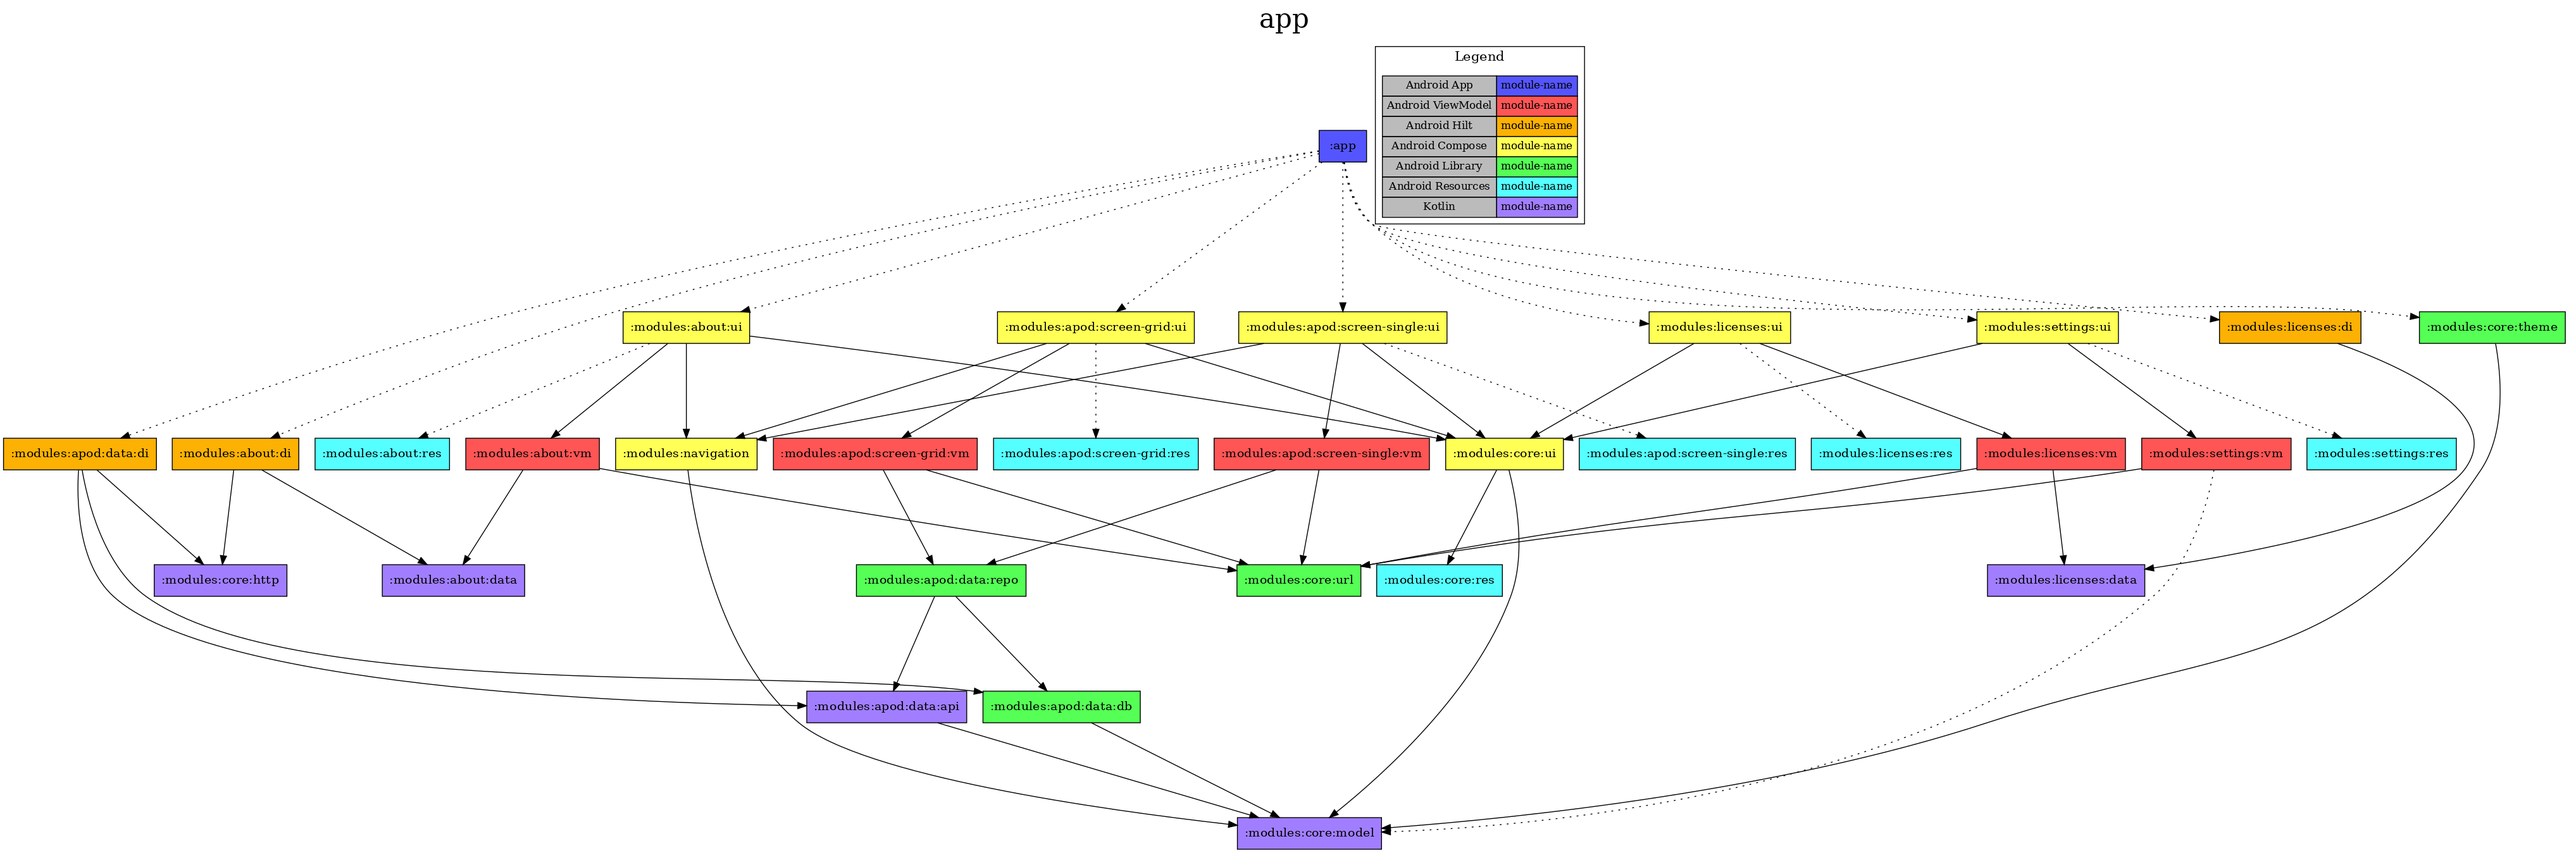
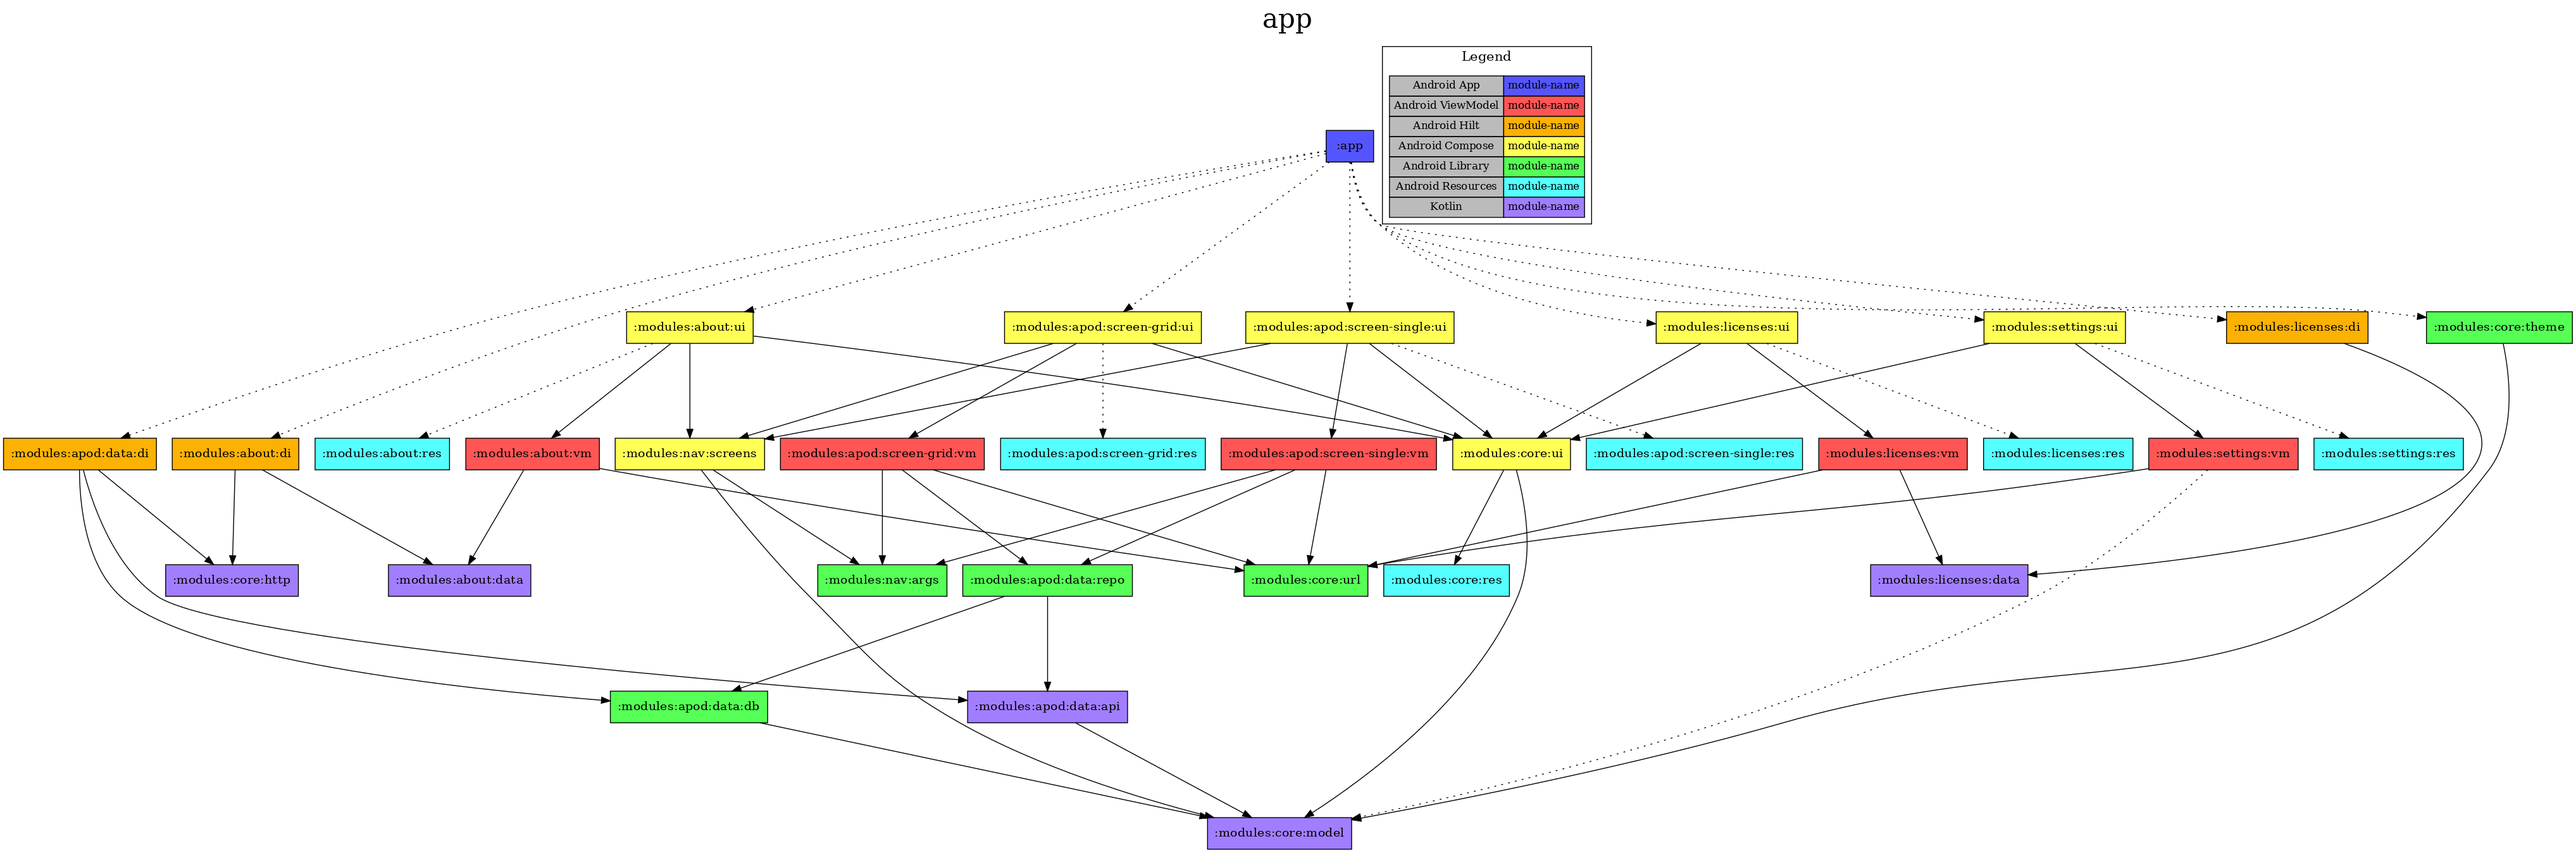
Fixed nav args

diff --git a/modules/apod/screen-grid/ui/src/main/kotlin/apod/grid/ui/ApodGridScreen.kt b/modules/apod/screen-grid/ui/src/main/kotlin/apod/grid/ui/ApodGridScreen.kt
@@ -8,11 +8,11 @@ import androidx.compose.runtime.mutableStateOf
 import androidx.compose.runtime.remember
 import androidx.compose.runtime.setValue
 import androidx.lifecycle.compose.collectAsStateWithLifecycle
-import apod.core.model.GridScreenConfig
 import apod.core.ui.getViewModel
 import apod.grid.vm.ApodGridAction
 import apod.grid.vm.ApodGridViewModel
-import apod.navigation.NavScreens
+import apod.nav.NavScreens
+import apod.nav.ScreenConfig
 import cafe.adriel.voyager.core.registry.rememberScreen
 import cafe.adriel.voyager.core.screen.Screen
 import cafe.adriel.voyager.navigator.LocalNavigator
@@ -23,7 +23,7 @@ import kotlinx.datetime.minus
 import kotlinx.datetime.plus
 
 data class ApodGridScreen(
-  val config: GridScreenConfig,
+  val config: ScreenConfig,
 ) : Screen {
   @Suppress("CyclomaticComplexMethod")
   @Composable
@@ -42,15 +42,24 @@ data class ApodGridScreen(
     var loadSpecificDate by remember { mutableStateOf<LocalDate?>(null) }
     val immutableSpecificDate = loadSpecificDate
     if (immutableSpecificDate != null) {
-      val config = GridScreenConfig.Specific(immutableSpecificDate)
+      val config = ScreenConfig.Specific(immutableSpecificDate)
       val screen = rememberScreen(NavScreens.Grid(config))
       navigator.replace(screen)
       loadSpecificDate = null
     }
 
+    var loadItemDate by remember { mutableStateOf<LocalDate?>(null) }
+    val immutableItemDate = loadItemDate
+    if (immutableItemDate != null) {
+      val config = ScreenConfig.Specific(immutableItemDate)
+      val screen = rememberScreen(NavScreens.Apod(config))
+      navigator.push(screen)
+      loadItemDate = null
+    }
+
     var loadRandom by remember { mutableStateOf(false) }
     if (loadRandom) {
-      val screen = rememberScreen(NavScreens.Grid(GridScreenConfig.Random))
+      val screen = rememberScreen(NavScreens.Grid(ScreenConfig.Random))
       navigator.replace(screen)
       loadRandom = false
     }
@@ -68,7 +77,7 @@ data class ApodGridScreen(
       onAction = { action ->
         when (action) {
           is ApodGridAction.NavToItem -> {
-            loadSpecificDate = action.item.date
+            loadItemDate = action.item.date
           }
 
           is ApodGridAction.RetryLoad -> loadCounter++

diff --git a/modules/apod/screen-single/ui/src/main/kotlin/apod/single/ui/ApodSingleScreen.kt b/modules/apod/screen-single/ui/src/main/kotlin/apod/single/ui/ApodSingleScreen.kt
@@ -9,10 +9,9 @@ import androidx.compose.runtime.remember
 import androidx.compose.runtime.setValue
 import androidx.lifecycle.compose.collectAsStateWithLifecycle
 import apod.core.model.ApodItem
-import apod.core.model.GridScreenConfig
-import apod.core.model.SingleScreenConfig
 import apod.core.ui.getViewModel
-import apod.navigation.NavScreens
+import apod.nav.NavScreens
+import apod.nav.ScreenConfig
 import apod.single.vm.ApodSingleAction
 import apod.single.vm.ApodSingleViewModel
 import cafe.adriel.voyager.core.registry.rememberScreen
@@ -25,7 +24,7 @@ import kotlinx.datetime.minus
 import kotlinx.datetime.plus
 
 data class ApodSingleScreen(
-  val config: SingleScreenConfig,
+  val config: ScreenConfig,
 ) : Screen {
   @Suppress("CyclomaticComplexMethod")
   @Composable
@@ -64,7 +63,7 @@ data class ApodSingleScreen(
     var loadSpecificDate by remember { mutableStateOf<LocalDate?>(null) }
     val immutableSpecificDate = loadSpecificDate
     if (immutableSpecificDate != null) {
-      val specific = SingleScreenConfig.Specific(immutableSpecificDate)
+      val specific = ScreenConfig.Specific(immutableSpecificDate)
       val screen = rememberScreen(NavScreens.Apod(specific))
       navigator.replace(screen)
       loadSpecificDate = null
@@ -73,7 +72,7 @@ data class ApodSingleScreen(
     var gridDate by remember { mutableStateOf<LocalDate?>(null) }
     val immutableGridDate = gridDate
     if (immutableGridDate != null) {
-      val specific = GridScreenConfig.Specific(immutableGridDate)
+      val specific = ScreenConfig.Specific(immutableGridDate)
       val screen = rememberScreen(NavScreens.Grid(specific))
       navigator.push(screen)
       gridDate = null
@@ -81,7 +80,7 @@ data class ApodSingleScreen(
 
     var loadRandom by remember { mutableStateOf(false) }
     if (loadRandom) {
-      val screen = rememberScreen(NavScreens.Apod(SingleScreenConfig.Random))
+      val screen = rememberScreen(NavScreens.Apod(ScreenConfig.Random))
       navigator.replace(screen)
       loadRandom = false
     }

diff --git a/modules/apod/screen-grid/vm/src/main/kotlin/apod/grid/vm/ApodGridViewModel.kt b/modules/apod/screen-grid/vm/src/main/kotlin/apod/grid/vm/ApodGridViewModel.kt
@@ -5,13 +5,13 @@ import androidx.lifecycle.ViewModel
 import androidx.lifecycle.viewModelScope
 import apod.core.model.ApiKey
 import apod.core.model.ApiKeyProvider
-import apod.core.model.GridScreenConfig
 import apod.core.model.NASA_API_URL
 import apod.core.url.UrlOpener
 import apod.data.repo.FailureResult
 import apod.data.repo.MultipleApodRepository
 import apod.data.repo.MultipleLoadResult
 import apod.data.repo.reason
+import apod.nav.ScreenConfig
 import dagger.hilt.android.lifecycle.HiltViewModel
 import kotlinx.collections.immutable.toImmutableList
 import kotlinx.coroutines.flow.MutableStateFlow
@@ -52,22 +52,22 @@ class ApodGridViewModel @Inject internal constructor(
     urlOpener.openUrl(NASA_API_URL)
   }
 
-  fun load(key: ApiKey, config: GridScreenConfig) {
+  fun load(key: ApiKey, config: ScreenConfig) {
     val mostRecent = mostRecentDate
-    val configToLoad = if (mostRecent == null) config else GridScreenConfig.Specific(mostRecent)
+    val configToLoad = if (mostRecent == null) config else ScreenConfig.Specific(mostRecent)
 
     when (configToLoad) {
-      GridScreenConfig.Random -> {
+      ScreenConfig.Random -> {
         mutableState.update { GridScreenState.Loading(date = null, key) }
         loadData(key, date = null) { repository.loadRandomMonth(key) }
       }
 
-      GridScreenConfig.ThisMonth -> {
+      ScreenConfig.Today -> {
         mutableState.update { GridScreenState.Loading(date = null, key) }
         loadData(key, date = null) { repository.loadThisMonth(key) }
       }
 
-      is GridScreenConfig.Specific -> {
+      is ScreenConfig.Specific -> {
         mostRecentDate = configToLoad.date
         mutableState.update { GridScreenState.Loading(configToLoad.date, key) }
         loadData(key, configToLoad.date) { repository.loadSpecificMonth(key, configToLoad.date) }

diff --git a/modules/apod/screen-single/vm/src/main/kotlin/apod/single/vm/ApodSingleViewModel.kt b/modules/apod/screen-single/vm/src/main/kotlin/apod/single/vm/ApodSingleViewModel.kt
@@ -6,12 +6,12 @@ import androidx.lifecycle.viewModelScope
 import apod.core.model.ApiKey
 import apod.core.model.ApiKeyProvider
 import apod.core.model.NASA_API_URL
-import apod.core.model.SingleScreenConfig
 import apod.core.url.UrlOpener
 import apod.data.repo.FailureResult
 import apod.data.repo.SingleApodRepository
 import apod.data.repo.SingleLoadResult
 import apod.data.repo.reason
+import apod.nav.ScreenConfig
 import dagger.hilt.android.lifecycle.HiltViewModel
 import kotlinx.coroutines.flow.MutableStateFlow
 import kotlinx.coroutines.flow.SharingStarted
@@ -58,22 +58,22 @@ class ApodSingleViewModel @Inject internal constructor(
     urlOpener.openUrl(url)
   }
 
-  fun load(key: ApiKey, config: SingleScreenConfig) {
+  fun load(key: ApiKey, config: ScreenConfig) {
     val mostRecent = mostRecentDate
-    val configToLoad = if (mostRecent == null) config else SingleScreenConfig.Specific(mostRecent)
+    val configToLoad = if (mostRecent == null) config else ScreenConfig.Specific(mostRecent)
 
     when (configToLoad) {
-      SingleScreenConfig.Random -> {
+      ScreenConfig.Random -> {
         mutableState.update { ScreenState.Loading(date = null, key) }
         loadData(key, date = null) { repository.loadRandom(key) }
       }
 
-      SingleScreenConfig.Today -> {
+      ScreenConfig.Today -> {
         mutableState.update { ScreenState.Loading(date = null, key) }
         loadData(key, date = null) { repository.loadToday(key) }
       }
 
-      is SingleScreenConfig.Specific -> {
+      is ScreenConfig.Specific -> {
         mostRecentDate = configToLoad.date
         mutableState.update { ScreenState.Loading(configToLoad.date, key) }
         loadData(key, configToLoad.date) { repository.loadSpecific(key, configToLoad.date) }

diff --git a/app/src/test/kotlin/apod/nav/ScreenConfigTest.kt b/app/src/test/kotlin/apod/nav/ScreenConfigTest.kt
@@ -1,0 +1,55 @@
+package apod.nav
+
+import android.os.Parcel
+import kotlinx.datetime.LocalDate
+import org.junit.After
+import org.junit.Before
+import org.junit.Test
+import org.junit.runner.RunWith
+import org.robolectric.RobolectricTestRunner
+import kotlin.test.assertEquals
+
+// readSerializable is deprecated, but we need it!
+@Suppress("DEPRECATION")
+@RunWith(RobolectricTestRunner::class)
+class ScreenConfigTest {
+  private lateinit var parcel: Parcel
+
+  @Before
+  fun before() {
+    parcel = Parcel.obtain()
+  }
+
+  @After
+  fun after() {
+    parcel.recycle()
+  }
+
+  @Test
+  fun `Serialize today`() {
+    parcel.writeSerializable(ScreenConfig.Today)
+    parcel.setDataPosition(0)
+
+    val config = parcel.readSerializable() as? ScreenConfig?
+    assertEquals(expected = ScreenConfig.Today, actual = config)
+  }
+
+  @Test
+  fun `Serialize random`() {
+    parcel.writeSerializable(ScreenConfig.Random)
+    parcel.setDataPosition(0)
+
+    val config = parcel.readSerializable() as? ScreenConfig?
+    assertEquals(expected = ScreenConfig.Random, actual = config)
+  }
+
+  @Test
+  fun `Serialize specific`() {
+    val date = LocalDate.parse("2024-05-05")
+    parcel.writeSerializable(ScreenConfig.Specific(date))
+    parcel.setDataPosition(0)
+
+    val config = parcel.readSerializable() as? ScreenConfig?
+    assertEquals(expected = ScreenConfig.Specific(date), actual = config)
+  }
+}

diff --git a/modules/nav/args/src/main/kotlin/apod/nav/ScreenConfig.kt b/modules/nav/args/src/main/kotlin/apod/nav/ScreenConfig.kt
@@ -1,0 +1,40 @@
+package apod.nav
+
+import androidx.compose.runtime.Immutable
+import kotlinx.datetime.LocalDate
+import java.io.IOException
+import java.io.ObjectInputStream
+import java.io.ObjectOutputStream
+import java.io.Serializable
+
+/**
+ * Needs to be [Serializable] so we can pass it as a screen parameter with Voyager.
+ */
+@Immutable
+sealed interface ScreenConfig : Serializable {
+  data object Today : ScreenConfig {
+    private fun readResolve(): Any = Today
+  }
+
+  data object Random : ScreenConfig {
+    private fun readResolve(): Any = Random
+  }
+
+  /**
+   * Needs custom serialization of [LocalDate] because it's not [Serializable].
+   * Annoyingly I can't get serialization to work without making [date] a var - but I pinky-promise to the compose
+   * compiler that I won't change it at runtime.
+   */
+  @Immutable
+  data class Specific(var date: LocalDate) : ScreenConfig {
+    @Throws(IOException::class)
+    private fun writeObject(output: ObjectOutputStream) {
+      output.writeObject(date.toString())
+    }
+
+    @Throws(IOException::class)
+    private fun readObject(input: ObjectInputStream) {
+      date = LocalDate.parse(input.readObject() as String)
+    }
+  }
+}

diff --git a/app/src/main/kotlin/apod/android/app/ApodActivity.kt b/app/src/main/kotlin/apod/android/app/ApodActivity.kt
@@ -8,8 +8,8 @@ import androidx.activity.viewModels
 import androidx.compose.runtime.getValue
 import androidx.core.splashscreen.SplashScreen.Companion.installSplashScreen
 import androidx.lifecycle.compose.collectAsStateWithLifecycle
-import apod.core.model.SingleScreenConfig
 import apod.core.ui.ApodTheme
+import apod.nav.ScreenConfig
 import apod.single.ui.ApodSingleScreen
 import cafe.adriel.voyager.navigator.Navigator
 import dagger.hilt.android.AndroidEntryPoint
@@ -26,7 +26,7 @@ class ApodActivity : ComponentActivity() {
     setContent {
       val theme by viewModel.theme.collectAsStateWithLifecycle()
       ApodTheme(theme) {
-        Navigator(ApodSingleScreen(SingleScreenConfig.Today))
+        Navigator(ApodSingleScreen(ScreenConfig.Today))
       }
     }
   }

diff --git a/modules/core/ui/src/main/kotlin/apod/core/ui/dialog/DialogContent.kt b/modules/core/ui/src/main/kotlin/apod/core/ui/dialog/DialogContent.kt
@@ -24,13 +24,13 @@ import apod.core.ui.color.Theme
 
 @Composable
 fun DialogContent(
-    title: String?,
-    content: @Composable ColumnScope.() -> Unit,
-    buttons: (@Composable RowScope.() -> Unit)?,
-    modifier: Modifier = Modifier,
-    icon: ImageVector? = null,
-    theme: Theme = LocalTheme.current,
-    titleColor: Color = theme.pageTextPrimary,
+  title: String?,
+  content: @Composable ColumnScope.() -> Unit,
+  buttons: (@Composable RowScope.() -> Unit)?,
+  modifier: Modifier = Modifier,
+  icon: ImageVector? = null,
+  theme: Theme = LocalTheme.current,
+  titleColor: Color = theme.pageTextPrimary,
 ) {
   Column(
     modifier = modifier

diff --git a/modules/nav/screens/src/main/kotlin/apod/nav/NavScreens.kt b/modules/nav/screens/src/main/kotlin/apod/nav/NavScreens.kt
@@ -1,13 +1,11 @@
-package apod.navigation
+package apod.nav
 
 import apod.core.model.ApodItem
-import apod.core.model.GridScreenConfig
-import apod.core.model.SingleScreenConfig
 import cafe.adriel.voyager.core.registry.ScreenProvider
 
 sealed interface NavScreens : ScreenProvider {
-  data class Apod(val config: SingleScreenConfig) : NavScreens
-  data class Grid(val config: GridScreenConfig) : NavScreens
+  data class Apod(val config: ScreenConfig) : NavScreens
+  data class Grid(val config: ScreenConfig) : NavScreens
   data class FullScreen(val item: ApodItem) : NavScreens
   data object About : NavScreens
   data object Licenses : NavScreens

diff --git a/modules/apod/data/repo/src/main/kotlin/apod/data/repo/SharedRepository.kt b/modules/apod/data/repo/src/main/kotlin/apod/data/repo/SharedRepository.kt
@@ -7,11 +7,16 @@ import apod.data.api.ApodJson
 import apod.data.api.FailureResponse
 import kotlinx.datetime.LocalDate
 import kotlinx.serialization.SerializationException
+import retrofit2.Response
 import timber.log.Timber
 import java.io.IOException
 import javax.inject.Inject
 
 internal class SharedRepository @Inject constructor() {
+  fun pullRateLimitRemaining(response: Response<*>): Int? {
+    return response.headers().get("X-RateLimit-Remaining")?.toIntOrNull()
+  }
+
   fun parseFailure(e: Exception): FailureResult = when (e) {
     is SerializationException -> {
       Timber.e(e, "Failed deserializing response")

diff --git a/modules/about/ui/src/main/kotlin/apod/about/ui/AboutScreen.kt b/modules/about/ui/src/main/kotlin/apod/about/ui/AboutScreen.kt
@@ -13,7 +13,7 @@ import apod.about.vm.AboutViewModel
 import apod.about.vm.CheckUpdatesState
 import apod.core.ui.color.LocalTheme
 import apod.core.ui.getViewModel
-import apod.navigation.NavScreens
+import apod.nav.NavScreens
 import cafe.adriel.voyager.core.registry.rememberScreen
 import cafe.adriel.voyager.core.screen.Screen
 import cafe.adriel.voyager.navigator.LocalNavigator

diff --git a/app/src/main/kotlin/apod/android/app/ApodApplication.kt b/app/src/main/kotlin/apod/android/app/ApodApplication.kt
@@ -8,7 +8,7 @@ import apod.core.http.buildOkHttp
 import apod.core.model.ApiKey
 import apod.grid.ui.ApodGridScreen
 import apod.licenses.ui.LicensesScreen
-import apod.navigation.NavScreens
+import apod.nav.NavScreens
 import apod.settings.ui.SettingsScreen
 import apod.single.ui.ApodFullScreen
 import apod.single.ui.ApodSingleScreen
